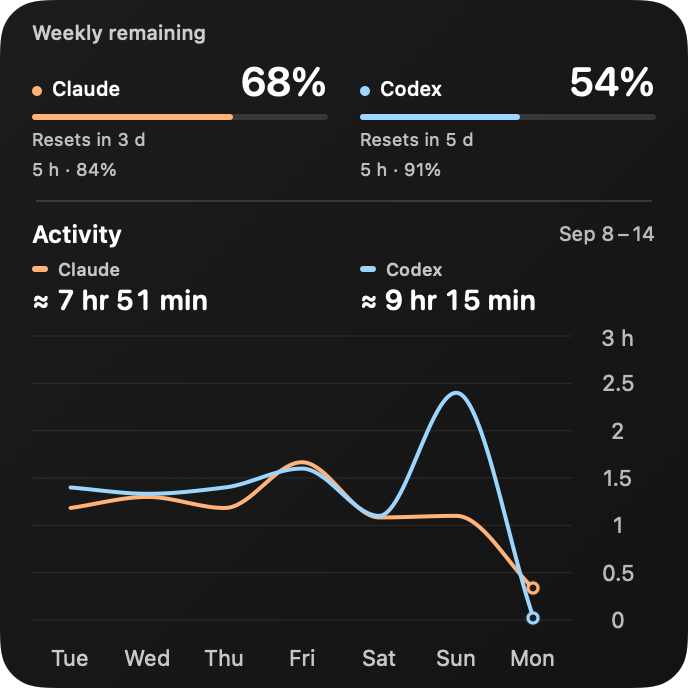
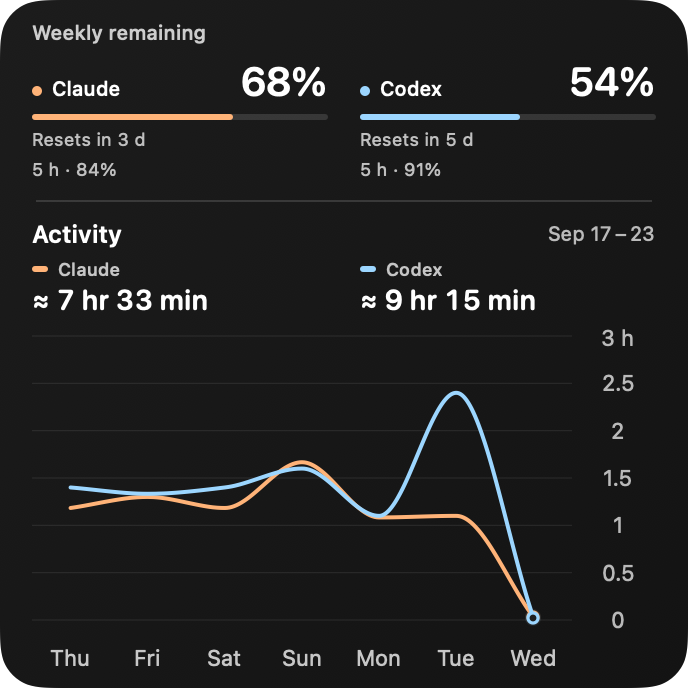
Refresh README for 0.1.8 with current screenshots and a what's-new section
Point downloads and the Homebrew cask to the 0.1.8 DMG, show the version
under the download button, and summarize the last two releases near the
top. The gallery was re-rendered from the 0.1.8 source; only dates, times,
the animated icon frame and period totals changed.

diff --git a/Casks/lunavect.rb b/Casks/lunavect.rb
@@ -1,6 +1,6 @@
 cask "lunavect" do
-  version "0.1.7"
[1 lines of base64/hex data omitted]
+  version "0.1.8"
[1 lines of base64/hex data omitted]
 
   url "https://github.com/lovach/Lunavect/releases/download/v#{version}/Lunavect-#{version}.dmg"
   name "Lunavect"

diff --git a/docs/updates.md b/docs/updates.md
@@ -10,7 +10,7 @@ New profiles enable update checks and leave automatic downloads/installation off
 
 Update requests go to GitHub and its download infrastructure. Session data and activity history are not attached. Builds without a valid update feed and public key do not start the updater. See [Privacy and permissions](../PRIVACY.md#network-requests).
 
-The current [public release](https://github.com/lovach/Lunavect/releases/tag/v0.1.7) is 0.1.7 (179), with widget registration re-confirmed at every launch, lower background CPU use, terminal tab focus for live CLI sessions and filtering of tool-launched Claude runtimes. Distribution and live-update check scopes are recorded in [verification](verification.md). The earlier Sparkle upgrade from development build 145 to 0.1.1 (147) preserved all 38 captured preferences and shared widget settings.
+The current [public release](https://github.com/lovach/Lunavect/releases/tag/v0.1.8) is 0.1.8 (180). It adds widget registration confirmations 2 and 10 minutes after launch to the 0.1.7 widget recovery, lower background CPU use, terminal tab focus for live CLI sessions and filtering of tool-launched Claude runtimes. Distribution and live-update check scopes are recorded in [verification](verification.md). The earlier Sparkle upgrade from development build 145 to 0.1.1 (147) preserved all 38 captured preferences and shared widget settings.
 
 ## Preparing a release
 
@@ -32,10 +32,10 @@ Public build configuration is in `Config/Distribution.xcconfig` and `Config/Upda
 First refresh release tags and download the currently published appcast into a private evidence directory. Review that baseline; the tools do not fetch it automatically. Use a new version/tag and a build and marketing version above every published entry. For example, after replacing these illustrative values with the intended release:
 
 ```sh
-./scripts/distribute.sh archive 0.1.7 179 /path/to/published-appcast.xml
-./scripts/distribute.sh submit 0.1.7 179
+./scripts/distribute.sh archive 0.1.8 180 /path/to/published-appcast.xml
+./scripts/distribute.sh submit 0.1.8 180
 # After Apple's notarization completes:
-./scripts/distribute.sh export 0.1.7 179
+./scripts/distribute.sh export 0.1.8 180
 ```
 
 Before invoking Xcode, `archive` rejects a dirty source tree, a shallow clone, an existing local `vVERSION` tag, and a build or marketing version that does not exceed the supplied appcast. Missing or malformed published version fields are rejected. Build-only releases that reuse a marketing version are deliberately unsupported by this workflow. Refresh tags and the appcast before this check: it cannot detect a remote publication missing from those local inputs. It begins a required-clean distribution manifest and finalizes it against the archived app. Packaging checks the actual app build and marketing version against the appcast again before reading a signing key or creating output.
@@ -84,8 +84,8 @@ Keep packaging dependencies and output outside the repository:
 python3 -m venv /path/outside-repository/dmg-venv
 /path/outside-repository/dmg-venv/bin/pip install -r scripts/dmg/requirements.txt
 /path/outside-repository/dmg-venv/bin/python scripts/package-dmg.py \
-  --app '/path/to/Notarized-179/Lunavect.app' \
-  --output '/path/to/release-assets/Lunavect-0.1.7.dmg'
+  --app '/path/to/Notarized-180/Lunavect.app' \
+  --output '/path/to/release-assets/Lunavect-0.1.8.dmg'
 ```
 
 Replace these paths and version numbers with your exported app and intended output. The DMG is a read-only image containing the app and an Applications link. Its Finder layout uses `scripts/dmg/layout.json`; the AppKit background renderer provides 1× and 2× artwork. The pinned `dmgbuild` dependencies write the layout metadata without automating Finder. See the [installer screenshot](images/installer.jpg).

diff --git a/README.md b/README.md
@@ -7,12 +7,12 @@
 A macOS menu bar app and desktop widgets for **Claude Code** and **Codex**.
 
 <p>
-  <a href="https://github.com/lovach/Lunavect/releases/download/v0.1.7/Lunavect-0.1.7.dmg"><img src="docs/images/download-macos.svg" width="256" height="56" alt="Download Lunavect for macOS — DMG"></a>
+  <a href="https://github.com/lovach/Lunavect/releases/download/v0.1.8/Lunavect-0.1.8.dmg"><img src="docs/images/download-macos.svg" width="256" height="56" alt="Download Lunavect for macOS — DMG"></a>
 </p>
 
-macOS 14+ · Apple silicon & Intel · Free and open source
+[Version 0.1.8](https://github.com/lovach/Lunavect/releases/tag/v0.1.8) · macOS 14+ · Apple silicon & Intel · Free and open source
 
-[Sessions](#sessions) · [Usage limits](#usage-limits) · [Widgets](#desktop-widgets) · [Install](#install) · [Release notes](CHANGELOG.md)
+[Sessions](#sessions) · [Usage limits](#usage-limits) · [Widgets](#desktop-widgets) · [Install](#install) · [What's new](#whats-new)
 
 <p>
   <a href="docs/images/readme-overview-dark.png">
@@ -26,7 +26,15 @@ macOS 14+ · Apple silicon & Intel · Free and open source
   </a>
 </p>
 
-<sub>Current interface, captured on September 14, 2026 with fictional data. [About the screenshots](docs/verification.md#public-screenshots).</sub>
+<sub>Current interface, captured on September 23, 2026 with fictional data. [About the screenshots](docs/verification.md#public-screenshots).</sub>
+
+## What's new
+
+**0.1.8** lets desktop widgets recover on their own after an update:<br>Lunavect re-confirms its widget registration once the installer has finished cleaning up.
+
+**0.1.7** brings a terminal session's own Terminal or iTerm2 tab to the front<br>and uses noticeably less CPU in the background.
+
+[All release notes](CHANGELOG.md)
 
 ## Install
 
@@ -42,7 +50,7 @@ open -a Lunavect
 
 </div>
 
-Or [download the DMG](https://github.com/lovach/Lunavect/releases/download/v0.1.7/Lunavect-0.1.7.dmg) and drag **Lunavect** to **Applications**. The release is Developer ID signed and notarized by Apple.
+Or [download the DMG](https://github.com/lovach/Lunavect/releases/download/v0.1.8/Lunavect-0.1.8.dmg) and drag **Lunavect** to **Applications**. The release is Developer ID signed and notarized by Apple.
 
 Open **Connect Claude** or **Connect Codex** in Lunavect. Claude requires **Claude Code CLI**; Claude Desktop alone is not enough. Connect either service or both. Sign-in stays with the official clients.
 

diff --git a/docs/verification.md b/docs/verification.md
@@ -166,7 +166,7 @@ The earlier 0.1.0 (103) package passed an isolated Homebrew install and uninstal
 
 ## Public screenshots
 
-The current gallery contains twelve native 2× images captured on September 14 from the production UI and a single fictional dataset: light/dark sessions, limits, statistics, menu-bar styles, appearance settings and four widget layouts. All twelve were visually inspected. The sandbox preflight, exact image set, dimensions and source-provenance checks passed.
+The current gallery contains twelve native 2× images captured on September 23 from the 0.1.8 production UI and a single fictional dataset: light/dark sessions, limits, statistics, menu-bar styles, appearance settings and four widget layouts. All twelve were visually inspected; compared with the September 14 set, only dates, times, the animated icon frame and period totals changed. The sandbox preflight, exact image set, dimensions and source-provenance checks passed.
 
 Settings and session controls were rendered in offscreen AppKit windows with private preview dependencies. The images demonstrate layout, not interactive settings flows, external-client navigation, desktop WidgetKit placement or system glass compositing. Older screenshots, the retouched desktop capture and the unused movie have been removed. [Source and reproduction instructions](public-screenshots.md).
 

diff --git a/docs/public-screenshots.md b/docs/public-screenshots.md
@@ -1,6 +1,6 @@
 # Public screenshots
 
-The README gallery shows the production interface from Lunavect 0.1.3, captured on September 14, 2026. All session titles, paths, quotas and activity are fictional. The twelve images were generated together and visually inspected at their native resolution.
+The README gallery shows the production interface from Lunavect 0.1.8, captured on September 23, 2026. All session titles, paths, quotas and activity are fictional. The twelve images were generated together and visually inspected at their native resolution.
 
 ## Rebuild the gallery
 

diff --git a/docs/installation.md b/docs/installation.md
@@ -22,7 +22,7 @@ The cask downloads the signed release DMG and checks its SHA-256 checksum.
 
 ## Direct download
 
-1. [Download the DMG](https://github.com/lovach/Lunavect/releases/download/v0.1.7/Lunavect-0.1.7.dmg), about 11 MB.
+1. [Download the DMG](https://github.com/lovach/Lunavect/releases/download/v0.1.8/Lunavect-0.1.8.dmg), about 11 MB.
 2. Open it and drag **Lunavect** to **Applications**.
 3. Open Lunavect from Applications.
 
